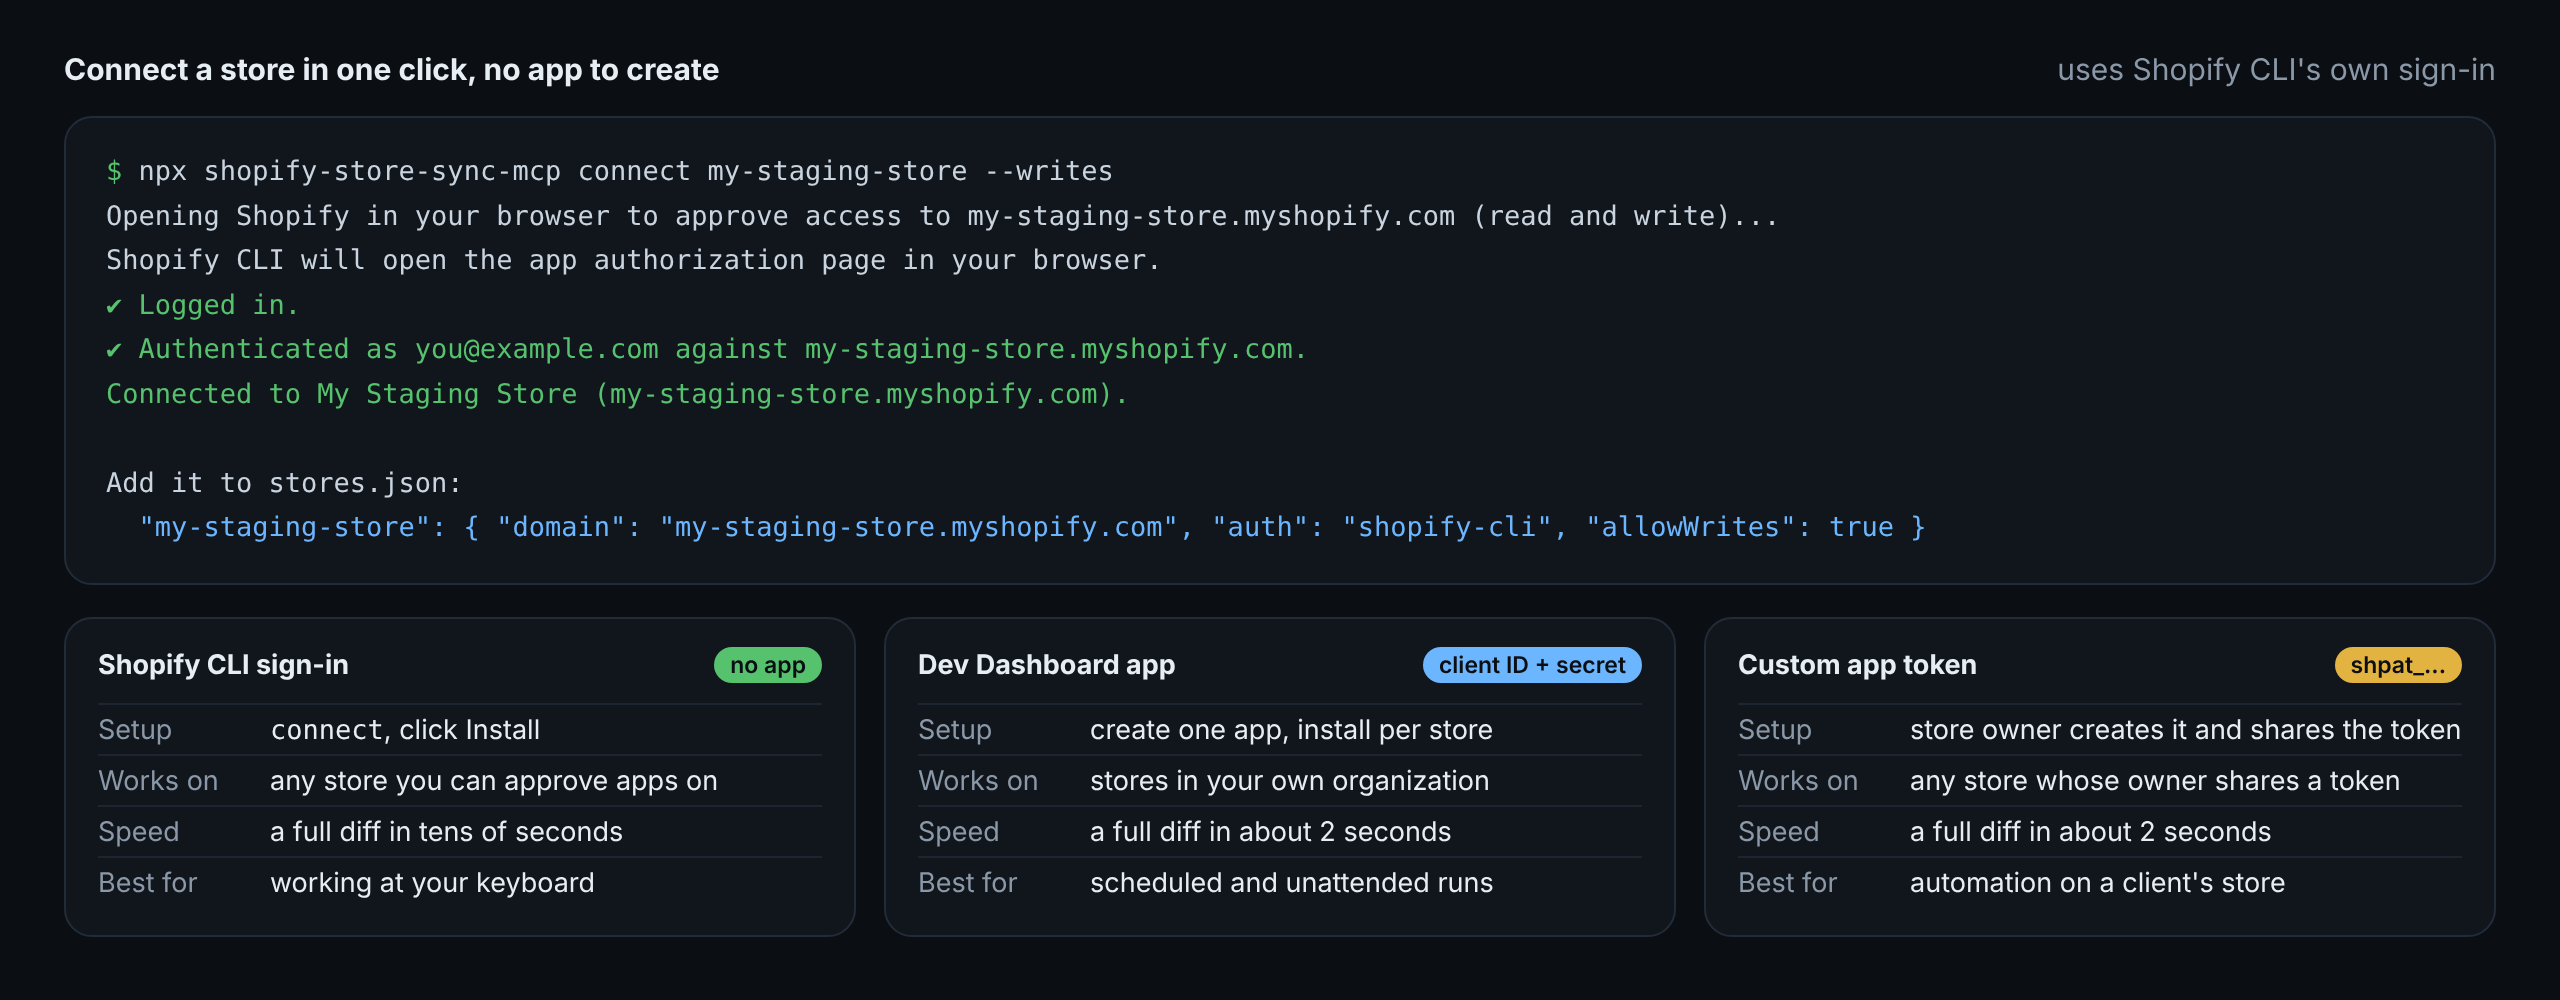
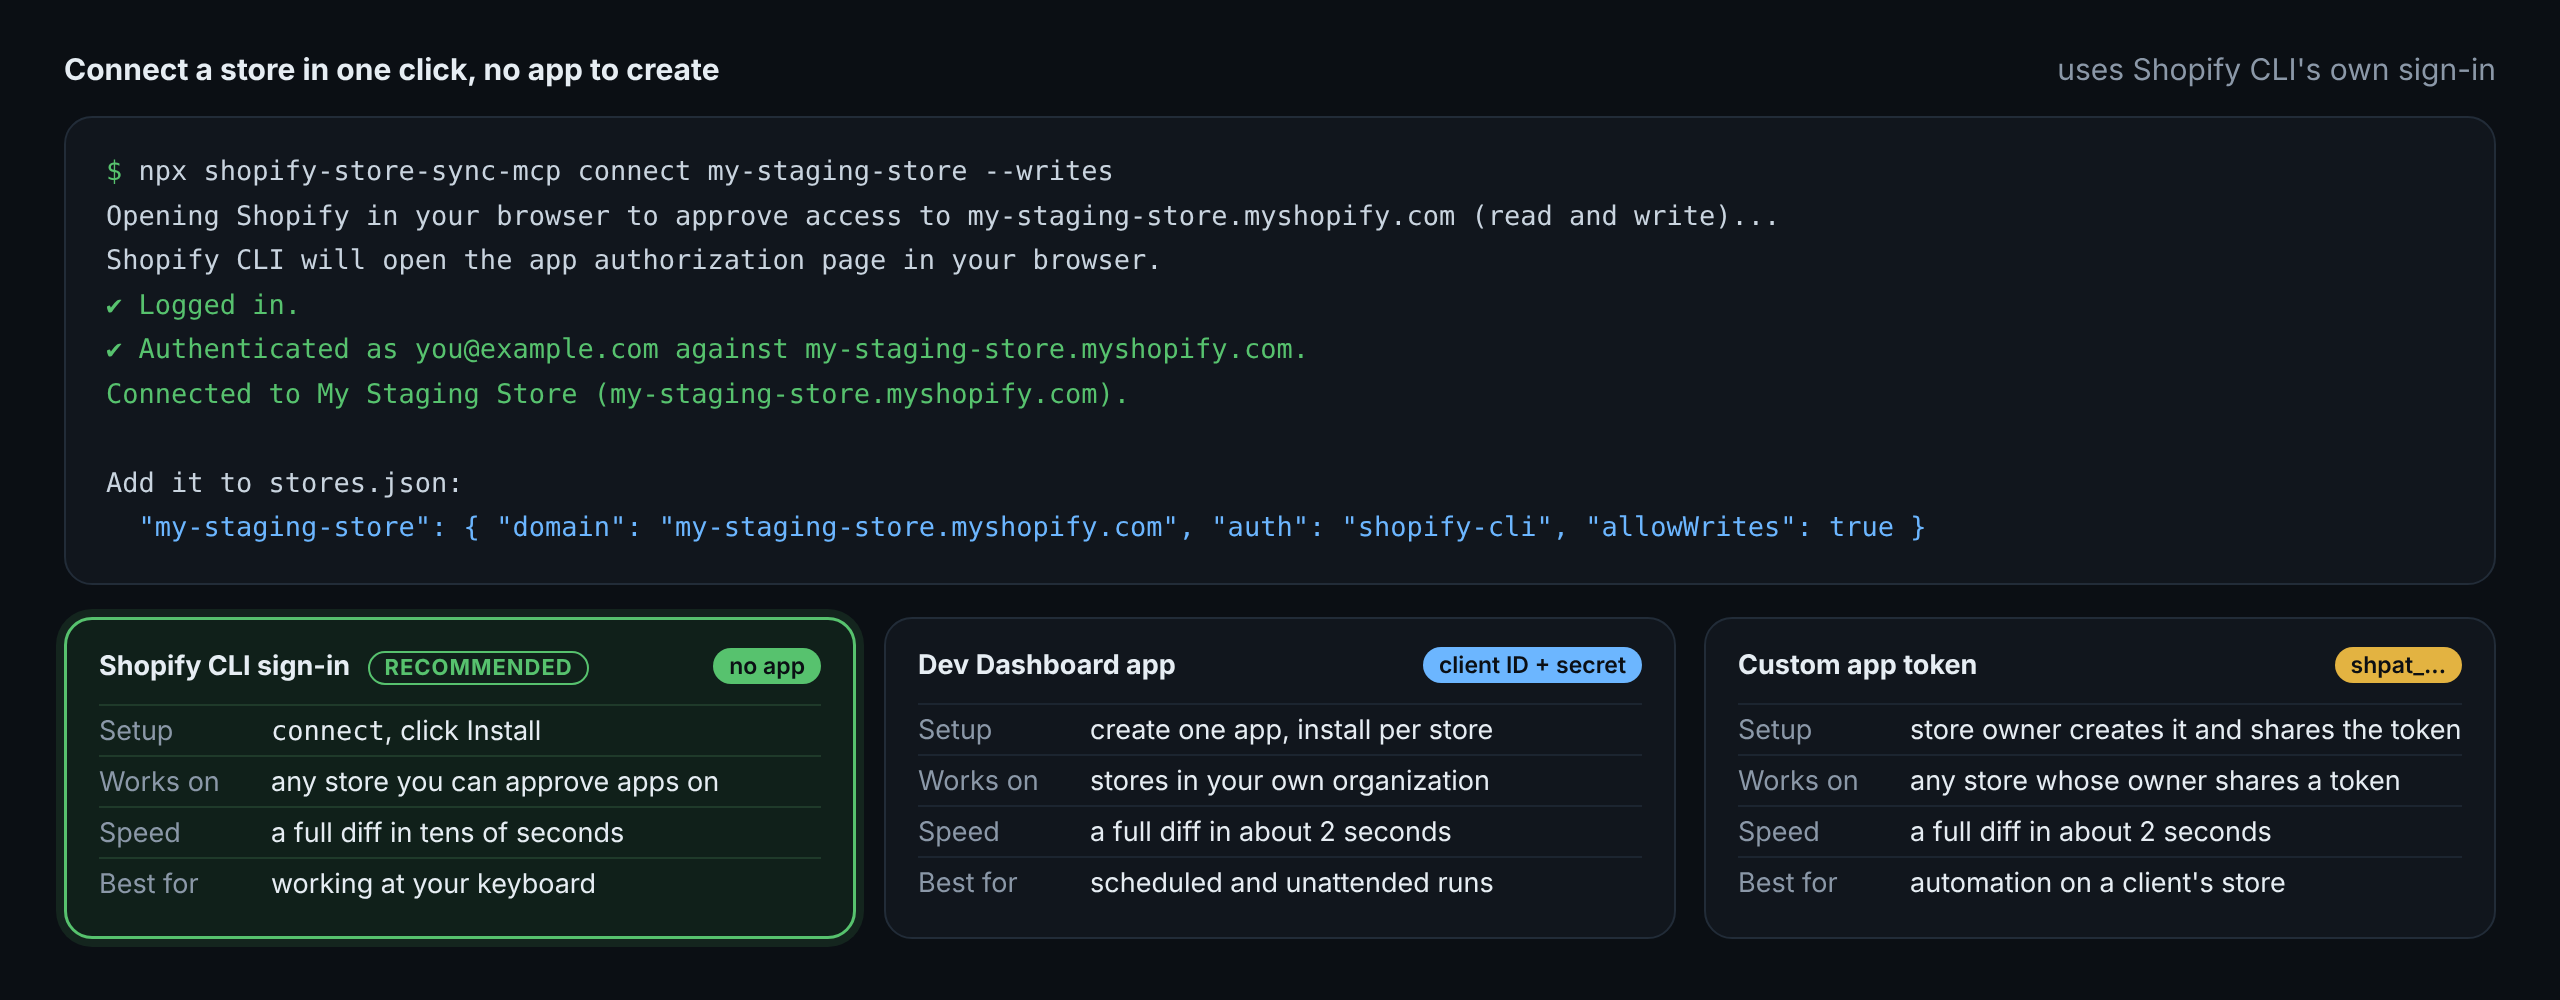
README: mark the Shopify CLI sign-in as the recommended way to connect

diff --git a/README.md b/README.md
@@ -126,7 +126,7 @@ To report a vulnerability, see [SECURITY.md](SECURITY.md).
 
 ### 1. Connect your stores
 
-Most people only need the first option: no app to create. The other two are for scheduled or unattended runs.
+**Recommended: sign in with Shopify CLI.** No app to create, nothing to paste: run `connect` and click **Install**. The other two options are only for scheduled or unattended runs.
 
 <p align="center">
   <img src="docs/images/connect.png" alt="connect output: browser approval, Connected, and the stores.json line to add; then the three ways to connect compared" width="100%">
@@ -139,7 +139,7 @@ npx shopify-store-sync-mcp connect my-staging-store --writes
 ```
 
 <details>
-<summary><b>More about the Shopify CLI sign-in</b></summary>
+<summary><b>More about the Shopify CLI sign-in (recommended)</b></summary>
 
 Each `connect` opens Shopify in your browser; click **Install** to approve. It asks for read-only scopes unless you pass `--writes` (or the store is configured with `"allowWrites": true`), then prints the line to add to `stores.json`:
 
